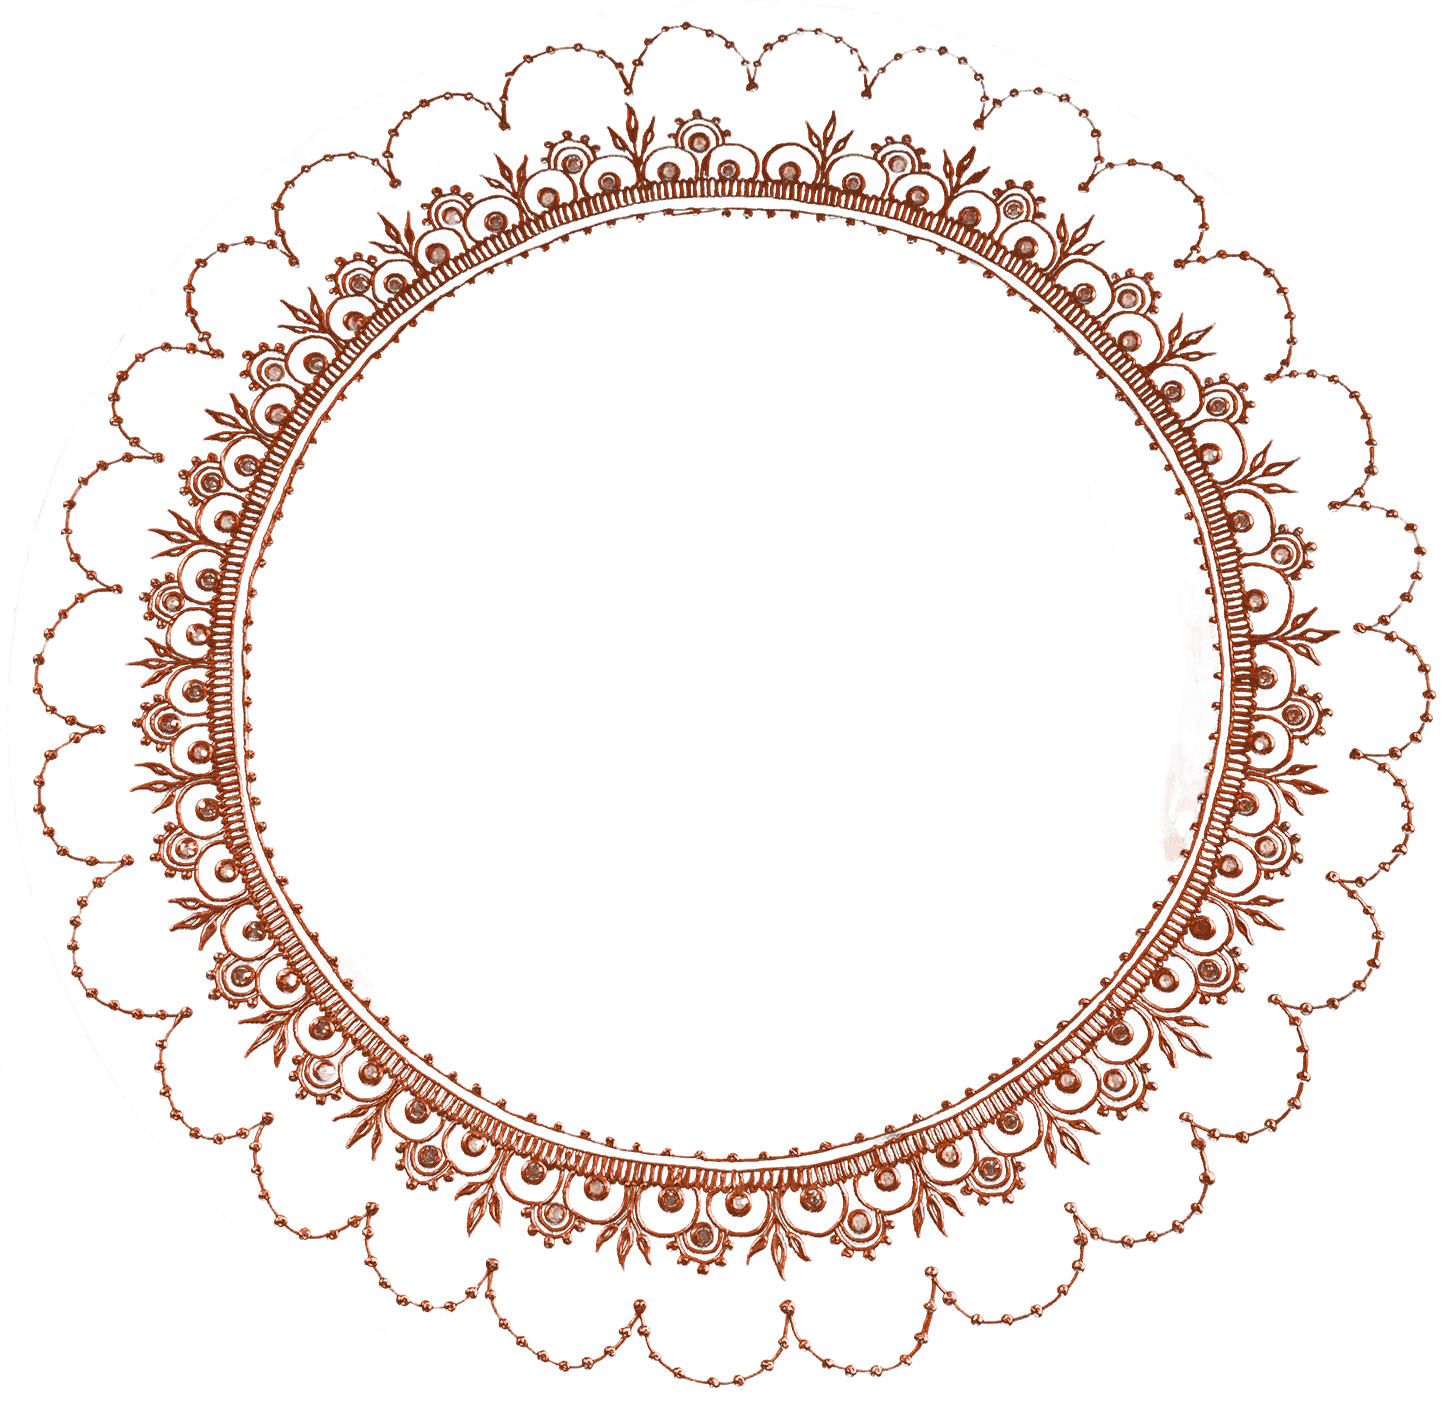
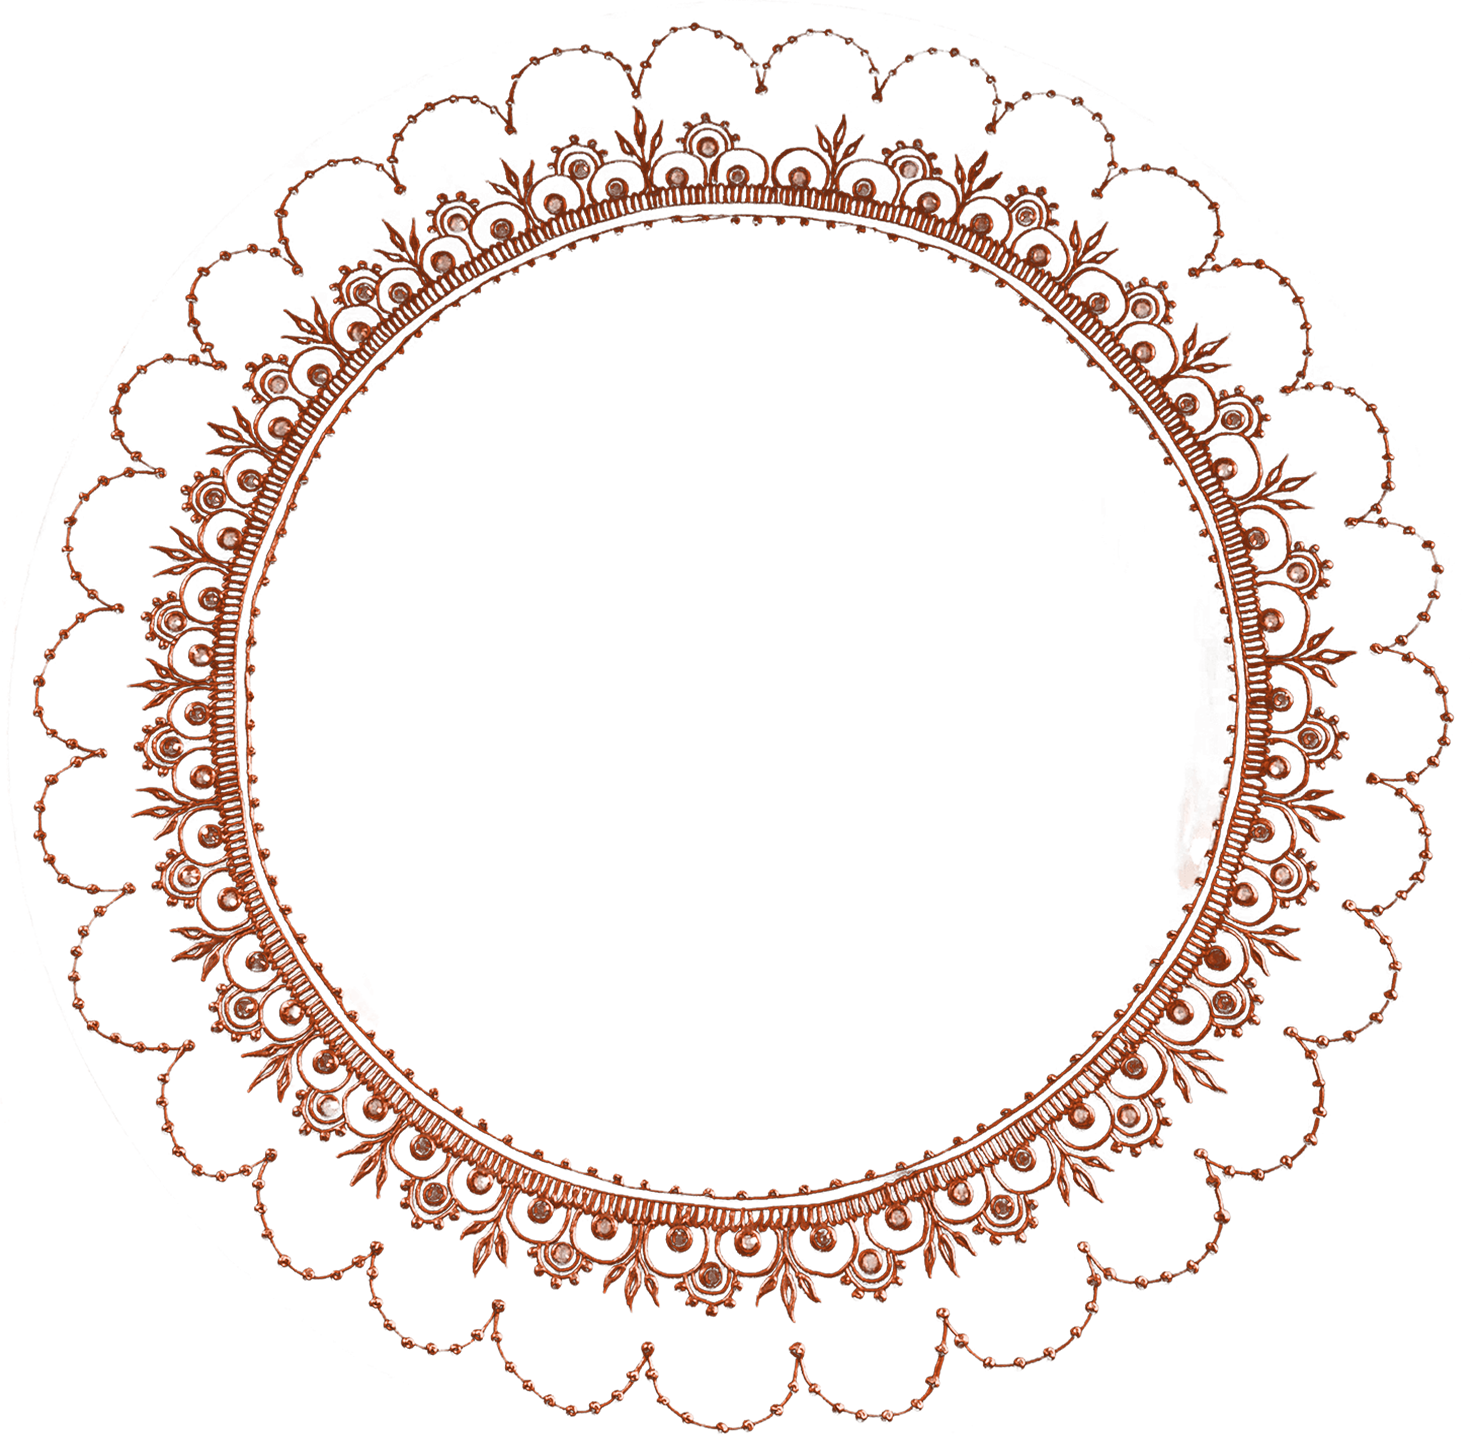
Add global context to Product component

diff --git a/src/Product.js b/src/Product.js
@@ -1,22 +1,29 @@
-import React from 'react';
-import PlateSrc from './img/Emerald-Green-Plate.png';
+import React, {useContext} from 'react';
+import {GlobalContext} from './Configurator';
+import GreenPlate from './img/Emerald-Green-Plate.png';
+import RubyPlate from './img/Ruby-Red-Plate.png';
+import PurplePlate from './img/Purple-Plate.png';
+import GoldDesign from './img/Gold-Design.png';
 import styled from 'styled-components';
 
-const Container = styled.div`
+const ProductImage = styled.img`
     height: 90%;
     width: auto;
-    text-align: center;
+    position: absolute;
 `;
 
-const ProductImage = styled.img`
-    height: 100%;
-    width: auto;
-`;
+const productRender = () => {
+
+}
 
 export default function Product() {
+
+    const {globalState,dispatch} = useContext(GlobalContext);
+
     return (
-        <Container>
-            <ProductImage src = {PlateSrc}/>
-        </Container>
+        <>
+            <ProductImage src = {RubyPlate}/>
+            <ProductImage src = {GoldDesign}/>        
+        </>
     )
 }

diff --git a/src/Configurator.js b/src/Configurator.js
@@ -26,12 +26,12 @@ const RightContainer = styled.div`
 `;
 
 const ProductContainer = styled.div`
-    background-color: white;
     height: 85%;
     width: 100%;
     display: flex;
     align-items: center;
     justify-content: center;
+    position: relative;
 `;
 
 const SideContainer = styled.div`
@@ -52,13 +52,12 @@ export const GlobalContext = React.createContext();
 
 export default function Configurator() {
 
-    //useReducer
+    ////// useReducer //////
 
     const initialState = {
         productSpec: {
-            product: '',
-            primaryColor: '',
-            secondaryColor: '',
+            primaryColor: 'Ruby Red',
+            secondaryColor: 'Gold',
             gem1: '',
             gem2: ''
         },
@@ -82,8 +81,7 @@ export default function Configurator() {
 
     const [globalState, dispatch] = useReducer(reducer,initialState);
 
-
-    ////////////
+    ///////////////////////
 
     return (
         <GlobalContext.Provider value = {{globalState, dispatch}}>

diff --git a/src/ProductSource.js b/src/ProductSource.js
@@ -2,9 +2,9 @@ export const productSource = [
     {
         name: 'Plate Colour',
         choices: [
-            {name: 'Crimson Red', colorCode: '#DC143C'},	
-            {name: 'Gold', colorCode: '#FFD700'},	
-            {name: 'Forest Green', colorCode: '#228B22'},	
+            {name: 'Ruby Red', colorCode: '#9b111e'},	
+            {name: 'Gold', colorCode: '#DAA520'},	
+            {name: 'Emerald Green', colorCode: '#228B22'},	
             {name: 'Majestic Blue', colorCode: '#2b3853'},	
             {name: 'Pretty Violet', colorCode: '#6400d3'}	
         ]

diff --git a/src/PickerButton.js b/src/PickerButton.js
@@ -12,7 +12,7 @@ const Container = styled.div`
     text-align: center;
     background-color: ${props => {
         if(props.colorName === props.stateColorName){
-            return 'lightgray'
+            return 'rgb(247, 247, 247)'
         }
     }}
 `;
